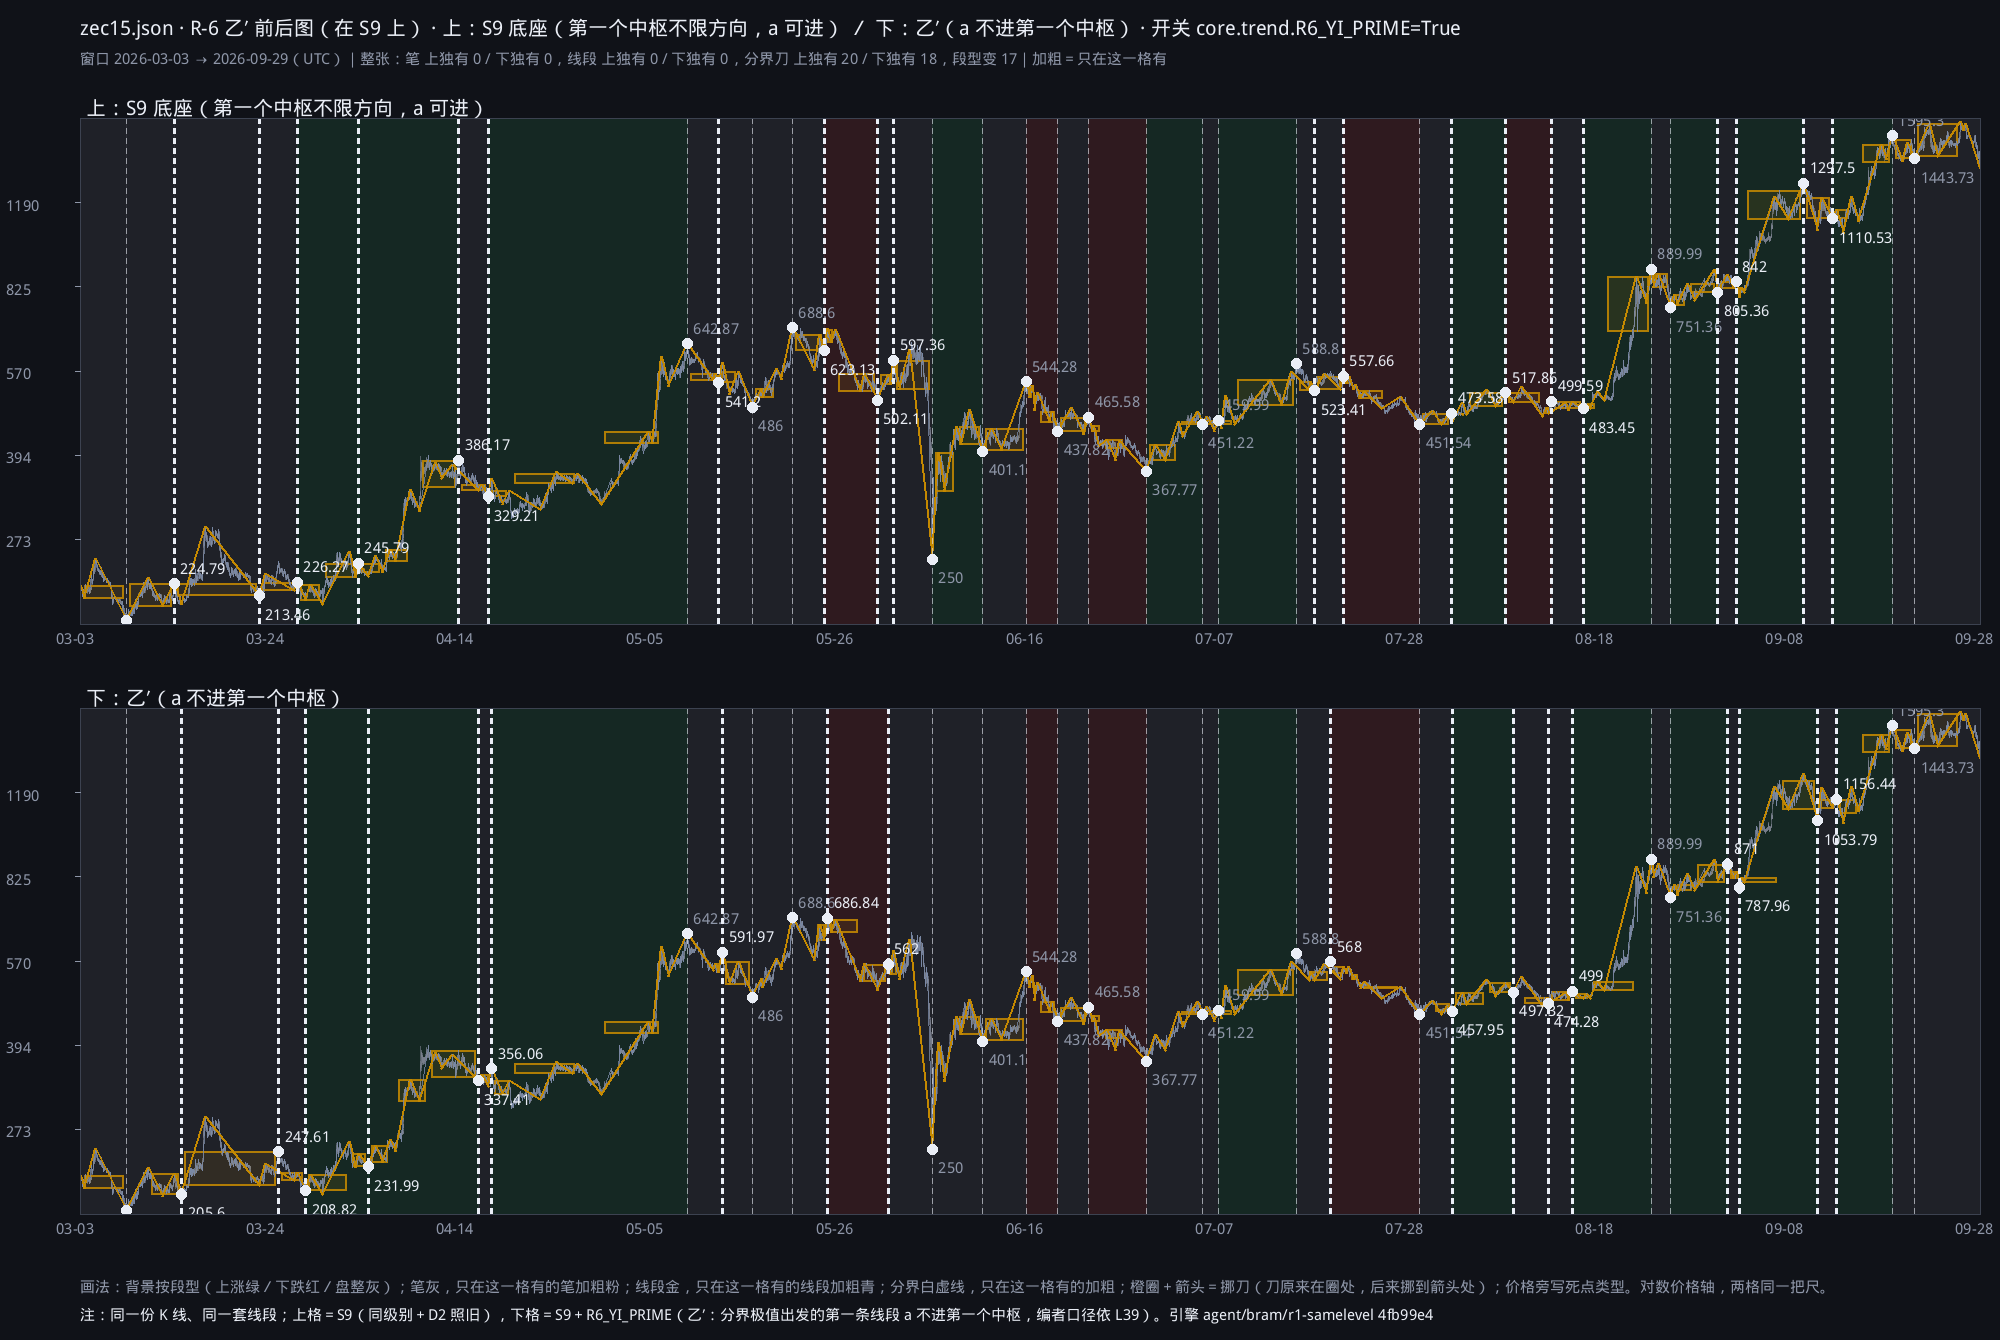
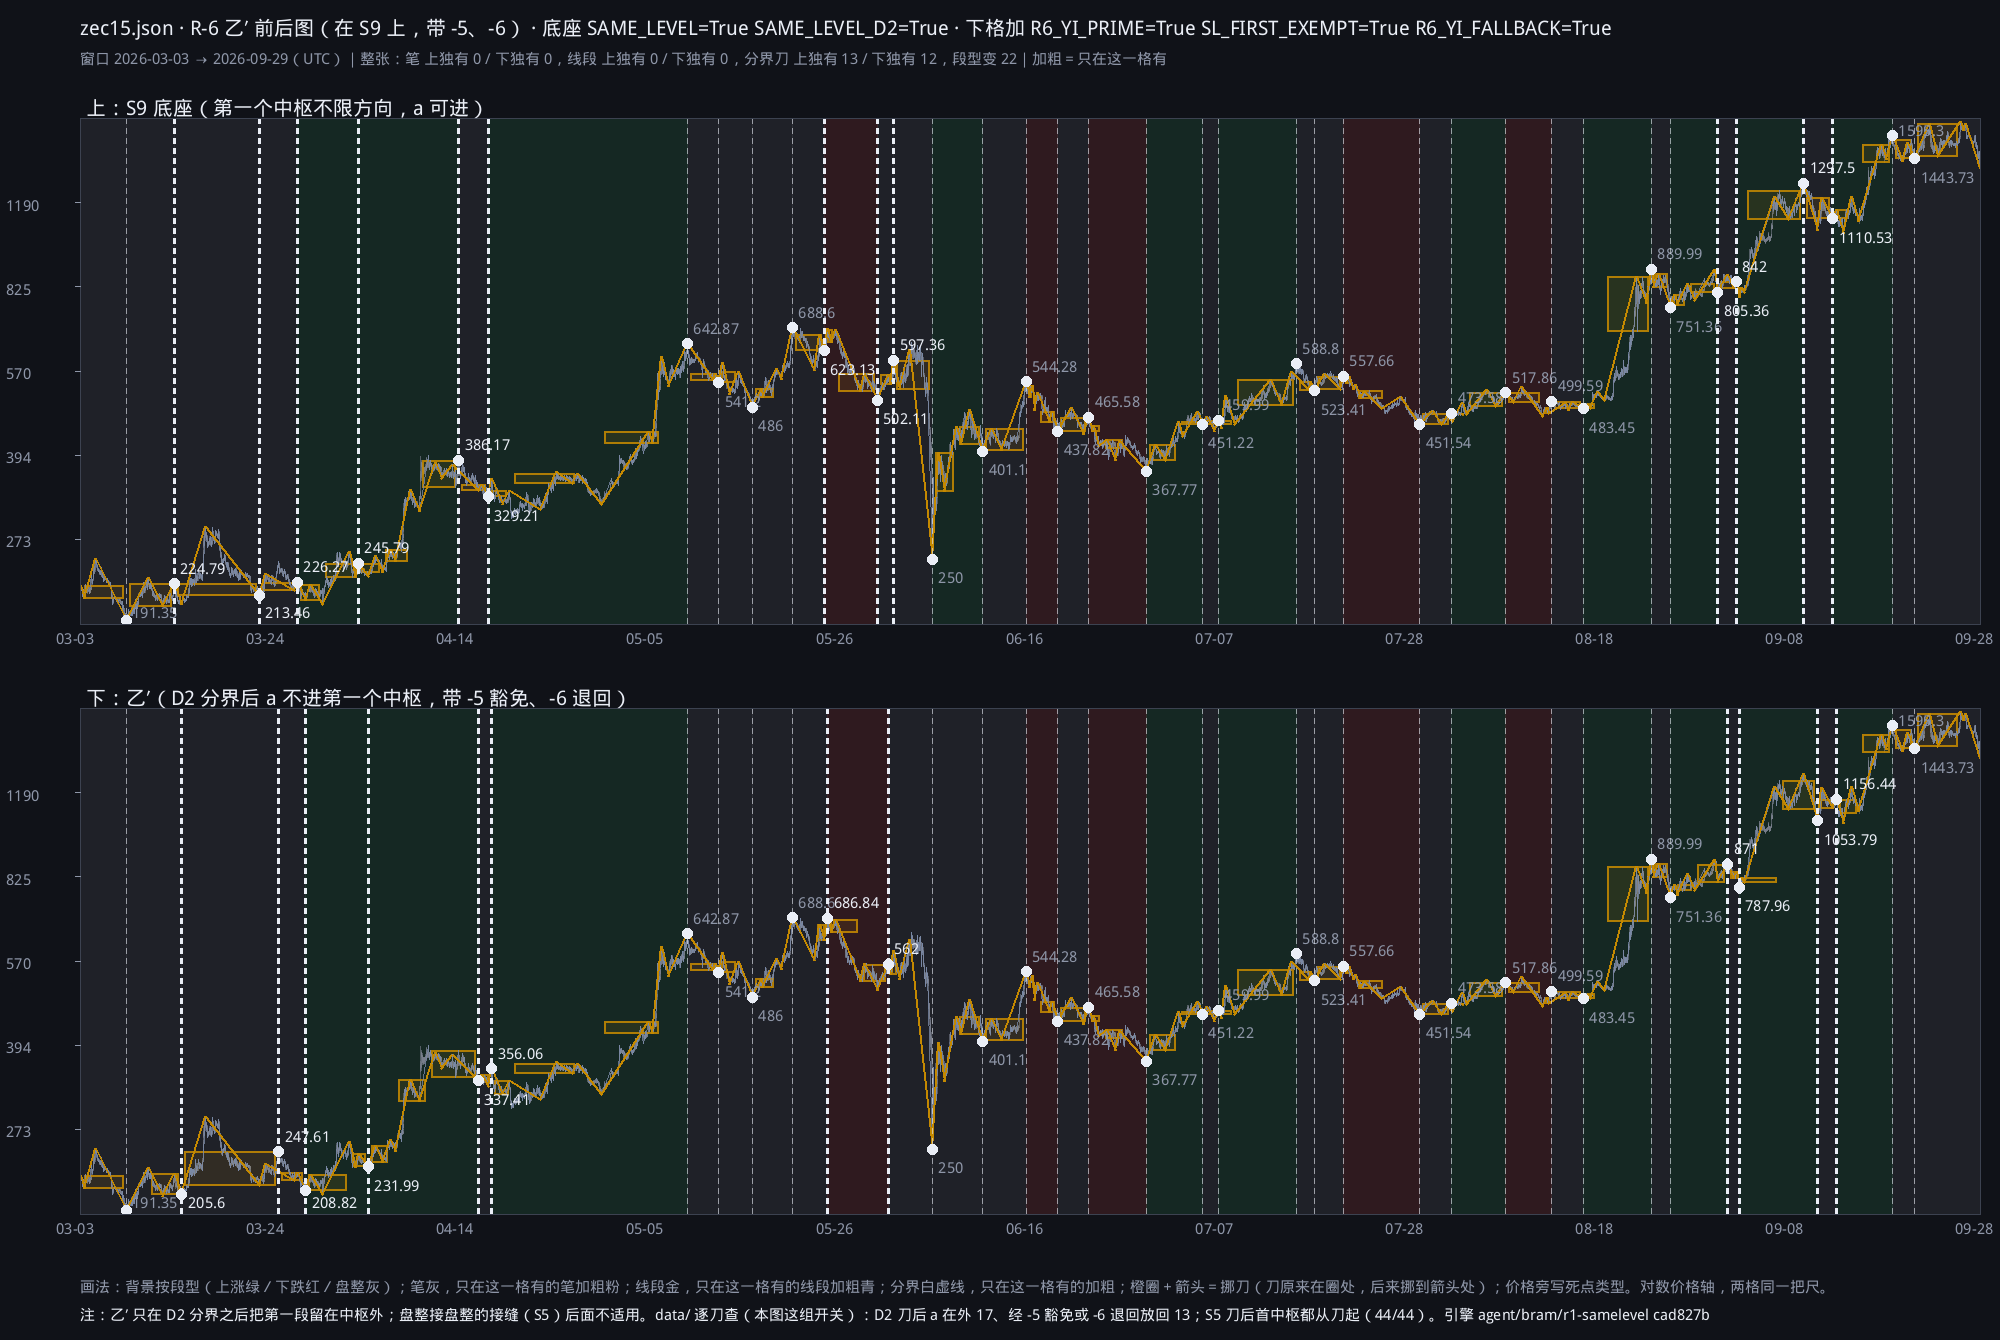
notes(r1): R-6 乙′ 图按 cad827b（带 -5 豁免、-6 退回）重出；放大窗换到 03-10～04-20（07-28～08-18 在这组开关下两格一样，删）；图注照 Atlas 96d36bf；表头只留常量名、价签夹进画框

diff --git a/notes/r1/r1_fig.py b/notes/r1/r1_fig.py
@@ -82,7 +82,8 @@ W, PH, ML, MR = 2000, 560, 80, 20
 im = Image.new('RGB', (W, 90 + 2 * (PH + 30) + (70 if a.note else 40)), BG); d = ImageDraw.Draw(im)
 win = bars[b0:b1 + 1]; lo = min(x['l'] for x in win) * 0.985; hi = max(x['h'] for x in win) * 1.015
 LL, LH = math.log(lo), math.log(hi)
-d.text((ML, 14), f'{a.file} · {a.title} · 上：{a.label_a} ／ 下：{a.label_b} · 开关 {" ".join(a.flag) or ("笔 " + a.pen + " → " + a.pen_b)}', fill=TX, font=F)
+nm = lambda fs: ' '.join(f.rsplit('.', 1)[-1] if '=True' in f else f.split('.')[-1] for f in fs)   # 只留常量名：上下两格的名字已经写在格子左上角，表头再写一遍会冲出右边
+d.text((ML, 14), f'{a.file} · {a.title}' + (f' · 底座 {nm(a.base)}' if a.base else '') + f' · 下格加 {nm(a.flag) or ("笔 " + a.pen + " → " + a.pen_b)}', fill=TX, font=F)
 dd = diff(A, B)
 d.text((ML, 48), f'窗口 {utc(b0):%Y-%m-%d} → {utc(b1):%Y-%m-%d}（UTC）｜整张：笔 上独有 {dd["pen_only_a"]} / 下独有 {dd["pen_only_b"]}，线段 上独有 {dd["seg_only_a"]} / 下独有 {dd["seg_only_b"]}，分界刀 上独有 {dd["bnd_only_a"]} / 下独有 {dd["bnd_only_b"]}，段型变 {dd["type_changed"]}｜加粗＝只在这一格有',
        fill=MU, font=Fs)
@@ -115,12 +116,12 @@ def panel(k, R, other, tag):
         if i1 < b0 or i0 > b1: continue
         mine = s not in oth and s in R['segs']
         q.line([X(i0), Y(p0), X(i1), Y(p1)], fill=(80, 200, 255) if mine else (196, 137, 1), width=5 if mine else 2)
-    for (bar, kind, price, death) in R['bounds']:
+    for (bar, kind, price, death) in R['bounds']:                # 价签夹在画框里：贴边的价签不许被框外刷底色刷掉
         if bar < b0 or bar > b1: continue
         mine = (bar, kind) not in othb; x = X(bar)
         for yy in range(top, bot, 10): q.line([x, yy, x, yy + 5], fill=(234, 238, 246, 255 if mine else 150), width=3 if mine else 1)
         q.ellipse([x - 5, Y(price) - 5, x + 5, Y(price) + 5], fill=TX)
-        q.text((x + 6, Y(price) + (-26 if kind == 'H' else 8)), f'{price:g}' + (f' · {death}' if death else ''), fill=TX if mine else MU, font=Fs)
+        q.text((x + 6, min(bot - 22, max(top + 2, Y(price) + (-26 if kind == 'H' else 8)))), f'{price:g}' + (f' · {death}' if death else ''), fill=TX if mine else MU, font=Fs)
     for (fb, tb, kind) in R.get('moved', []):                  # 挪刀：橙色空心圈＝刀原来立的地方，箭头指到挪过去的地方
         if max(fb, tb) < b0 or min(fb, tb) > b1: continue
         px = lambda i: bars[i]['h'] if kind == 'H' else bars[i]['l']
